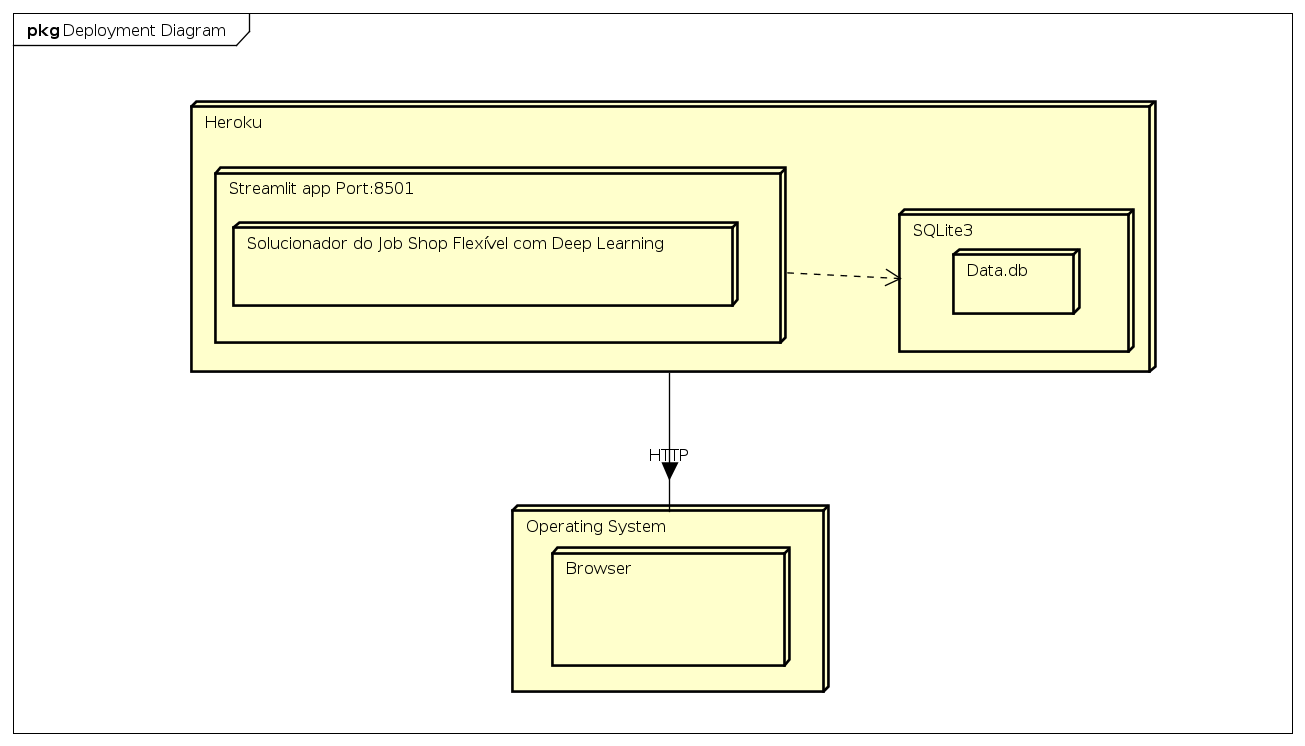
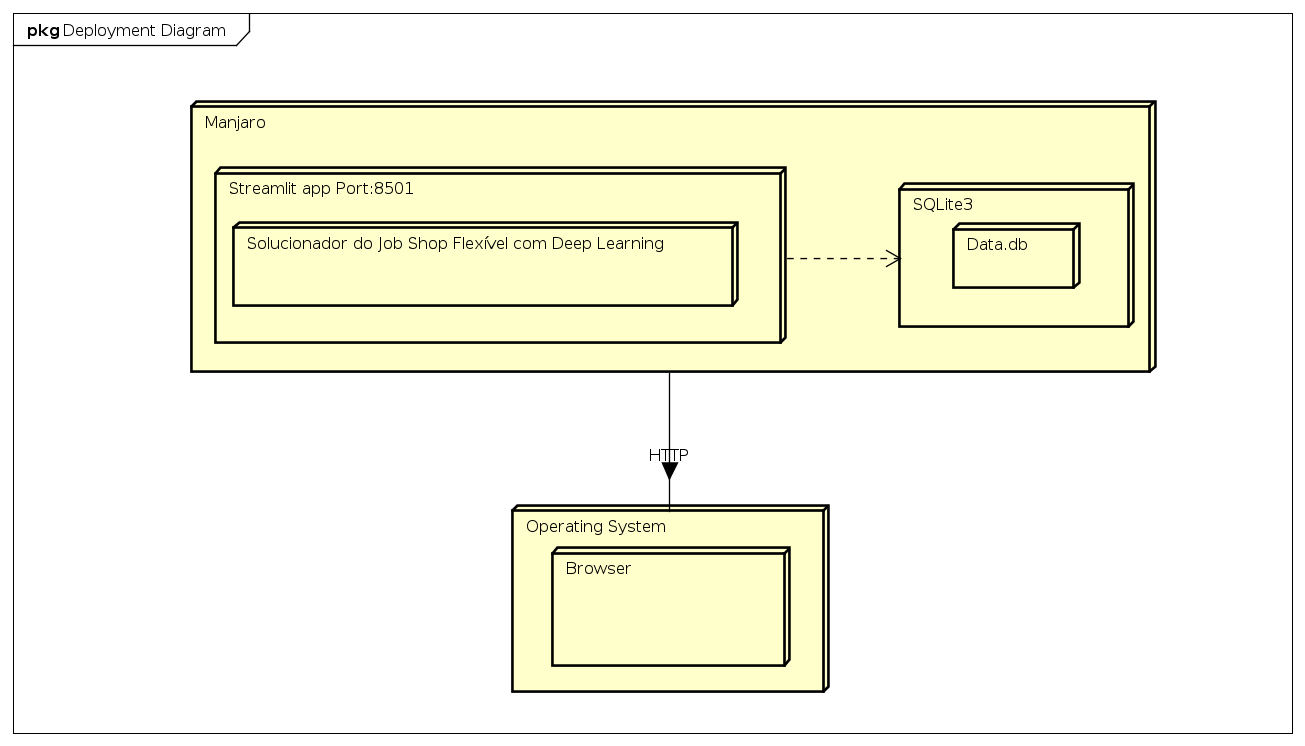
Atualizacao para apresentacao na banca

diff --git a/index.html b/index.html
@@ -136,10 +136,10 @@
                         <figcaption>SQLite</figcaption>
                     </figure>
                     <figure>
-                        <a href="https://www.heroku.com/" target="blank">
-                            <img src="images/tecnologias/Heroku.png" width="150" height="150">
+                        <a href="https://manjaro.org/" target="blank">
+                            <img src="images/tecnologias/Manjaro.png" width="150" height="150">
                         </a>
-                        <figcaption>Heroku</figcaption>
+                        <figcaption>Manjaro</figcaption>
                     </figure>
                 </div>
             </section>
@@ -369,7 +369,7 @@
 
 
             <!-- GERENCIAR HISTORICO TREINAMENTO -->
-            <section>
+            <!-- <section>
                 <section>
                     <h3>Gerenciar Histórico do Treinamento</h3>
                 </section>
@@ -383,7 +383,7 @@
                     </ul>
                     <img src="images/diagramas/Diagrama de Caso de Uso/Suc_GerenciarHistoricoTreinamento.png" width="600" height="500">
                 </section>
-            </section>
+            </section> -->
 
 
             <!-- EXIBIR DADOS TREINAMENTO -->
@@ -464,29 +464,80 @@
                     </ul>
                     <iframe src="https://docs.google.com/document/d/e/2PACX-1vR8t9NQKw063ncRWtxN6AzktbR57A2qDZszv2pAcZW3jbW4QhSMsdObT5JOmoW3aQ/pub?embedded=true" width="700" height="500"></iframe>
                 </section>
+            </section>
+
+
+            <!-- ESPECIFICACOES DE CASO DE USO -->
+            <section>
                 <section>
-                    <h3>Artefatos de Requisitos</h3>
+                    <h3>Especificações de Caso de Uso</h3>
                     <ul>
-                        <li style="font-size: 35px;">
-                            <a href="https://drive.google.com/file/d/175Rqkb_7rrbgCcl7bCfcauNXzvS1w6AW/view?usp=sharing" style="text-decoration: none; color: black;" target="blank">
-                            Especificação de Caso de Uso: Gerenciar Treinamento Agente
-                            </a>
-                        </li>
+                        <li><a href="https://drive.google.com/file/d/1Y-SqbDhwZNBY8bu0q3J6xMcqTKmpZQU6/view" style="text-decoration: none; color: black;" target="blank">
+                            Exibir Resultados
+                        </a></li>
                     </ul>
+                    <br>
+                    <iframe src="https://docs.google.com/document/d/e/2PACX-1vSKL1teofmsiyisIdkqqicKqn1utBRkiALu1J3bnaIhC5vFxZsNYS7dY2l9sVq_VQ/pub?embedded=true" width="700" height="500"></iframe>
+                </section>
+
+                <section>
+                    <h3>Especificações de Caso de Uso</h3>
+                    <ul>
+                        <li><a href="https://drive.google.com/file/d/1K45z5-opAmFJlMOdqctCHoHSmqxEerp-/view" style="text-decoration: none; color: black;" target="blank">
+                            Gerenciar Ações Sistema
+                        </a></li>
+                    </ul>
+                    <br>
+                    <iframe src="https://docs.google.com/document/d/e/2PACX-1vT-85m9tfC1ffYbyR-43HWwSTqCo8xVT-BREsBDfbzY6GtpaWsPSkgBAC5nrULGkg/pub?embedded=true" width="700" height="500"></iframe>
+                </section>
+
+                <section>
+                    <h3>Especificações de Caso de Uso</h3>
+                    <ul>
+                        <li><a href="https://drive.google.com/file/d/1NsENLOW_OwtQS6n2do1Ny3MO_SMnx4DZ/view" style="text-decoration: none; color: black;" target="blank">
+                            Gerenciar Parâmetros Agente
+                        </a></li>
+                    </ul>
+                    <br>
+                    <iframe src="https://docs.google.com/document/d/e/2PACX-1vRm_JcJNbXcPOygK2-PnjO508NdZAVU8NKmUU_Dc7yuKs7OTM2FhGvYReXU6LxGog/pub?embedded=true" width="700" height="500"></iframe>
+                </section>
+
+                <section>
+                    <h3>Especificações de Caso de Uso</h3>
+                    <ul>
+                        <li><a href="https://drive.google.com/file/d/156pvntNNEDm0GSShsG0wOxBl3hfnH2Ts/view" style="text-decoration: none; color: black;" target="blank">
+                                Gerenciar Parâmetros Ambiente
+                            </a></li>
+                    </ul>
+                    <br>
+                    <iframe src="https://docs.google.com/document/d/e/2PACX-1vS2xTI904kyCh3PMaPd0DRunB9EjyftsuVKqAGnPGeplhumKyYKtup4Kj0mtdi8Sw/pub?embedded=true" width="700" height="500"></iframe>
+                </section>
+
+                <section>
+                    <h3>Especificações de Caso de Uso</h3>
+                    <ul>
+                        <li><a href="https://drive.google.com/file/d/182n09egzKRTv0C0W57BnDyRiwRLzAbU4/view" style="text-decoration: none; color: black;" target="blank">
+                                Gerenciar Registros Treinamento
+                            </a></li>
+                    </ul>
+                    <br>
+                    <iframe src="https://docs.google.com/document/d/e/2PACX-1vSXWWuqRkmsejEPf5byZv1hcq8OoHuctG0BmB51ZQanmjOTjkP7j78KWbV2cQWQrw/pub?embedded=true" width="700" height="500"></iframe>
+                </section>
+
+                <section>
+                    <h3>Especificações de Caso de Uso</h3>
+                    <ul>
+                        <li><a href="https://drive.google.com/file/d/175Rqkb_7rrbgCcl7bCfcauNXzvS1w6AW/view" style="text-decoration: none; color: black;" target="blank">
+                                Gerenciar Treinamento Agente
+                            </a></li>
+                    </ul>
+                    <br>
                     <iframe src="https://docs.google.com/document/d/e/2PACX-1vTqrpzYF1BEnWU4dQy0O7drBUfbdttio5jw80TZLIRnqTLkej6b_nfi3omIBhvqkg/pub?embedded=true" width="700" height="500"></iframe>
                 </section>
             </section>
 
-            <!--MVP-->
-            <section>
-                <h3>
-                    <a href="https://ddqn-fjsp.herokuapp.com/" style="color: black;" target="blank">
-                        MVP
-                    </a>
-                </h3>
-            </section>
 
-
+            <!-- CONCLUSÃO E TRABALHOS FUTUROS -->
             <section>
                 <h3>Conclusão</h3>
 
